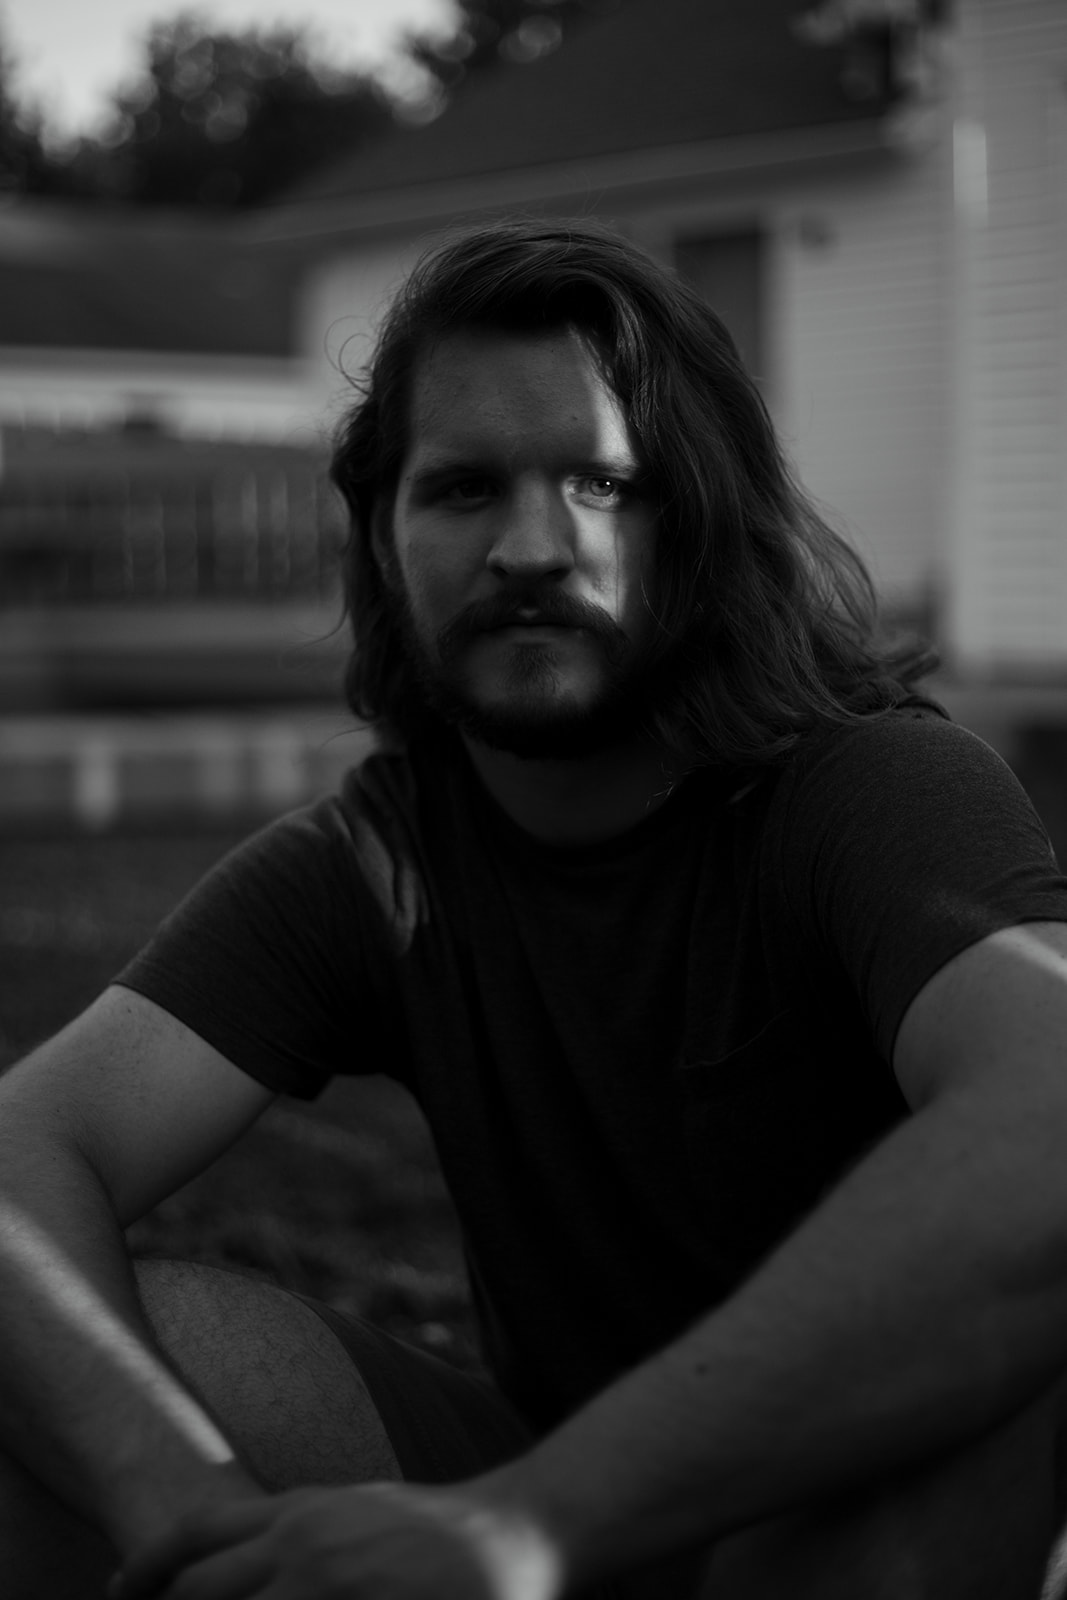
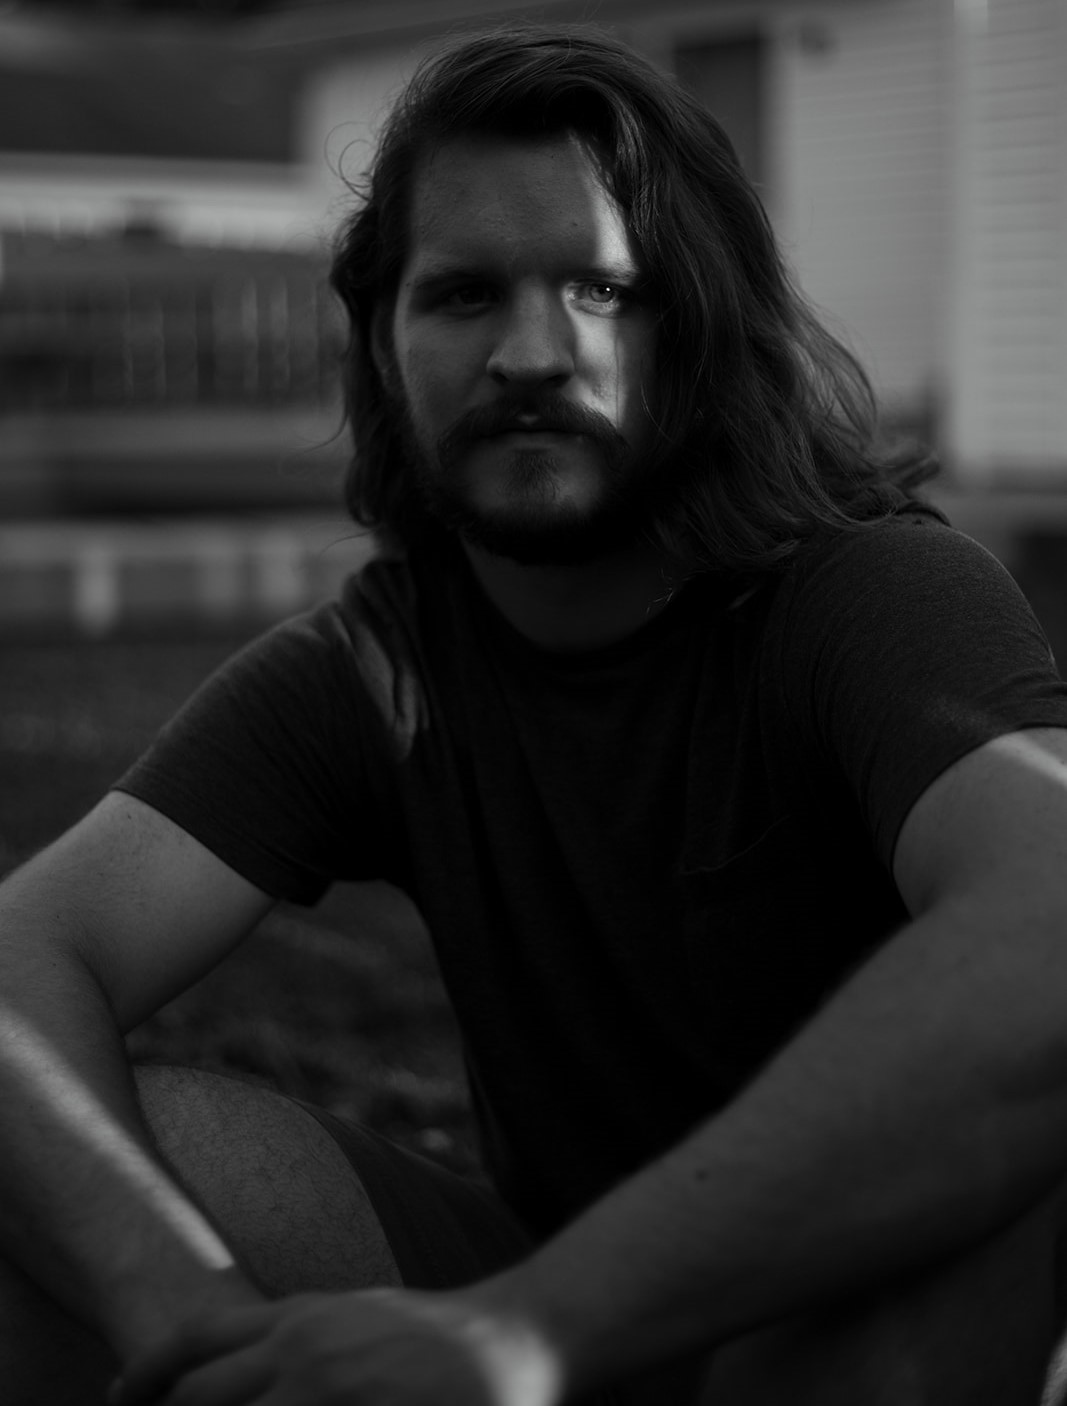
Updated About Me component

diff --git a/src/components/About/index.js b/src/components/About/index.js
@@ -3,7 +3,44 @@ import React from "react";
 function About() {
   return (
     <>
-      <h2>About</h2>
+      <h2 className="text-xl md:text-3xl">About Me</h2>
+
+      <div className="md:grid md:grid-cols-3 md:gap-12 pt-6">
+        <div className="md:col-span-2 text-base md:text-lg text-gray-800">
+          <p className="mb-2">Hello.</p>
+          <p className="my-2">
+            My name is Mitchell George. I'm an engineer by day and a web
+            developor by night. I have a passion for logic and mathematics, and
+            I'm pretty detail oriented. Engineering suits me well, but building
+            websites has quickly become one of my favorite things to do.
+          </p>
+          <p className="mt-4">My formal education includes:</p>
+          <ul className="list-disc list-inside mb-4">
+            <li>Bachelor's Degree in Electrical Engineering</li>
+            <li>Associate's Degree in Industrial Technology</li>
+            <li>Certification in Full Stack Web Development</li>
+          </ul>
+          <p className="my-2">
+            Some of my biggest hobbies and passions are making coffee, playing
+            chess, and learning about nature.
+          </p>
+          <p className="my-2">
+            I have a cat named Shino, and recently I've been teaching her to do
+            tricks. Her favorite is high-five, but she can also sit, lay, and
+            stand.
+          </p>
+          <p className="mt-2 mb-4 md:mb-0">
+            If you'd like to know more about to me, find the Contact section
+            above and reach out!
+          </p>
+        </div>
+
+        <img
+          src={require("../../assets/images/mitchell-george.jpg")}
+          alt="Me sitting outside"
+          className="w-full h-96 object-cover object-top rounded-md"
+        ></img>
+      </div>
     </>
   );
 }

diff --git a/src/components/Header/index.js b/src/components/Header/index.js
@@ -22,11 +22,11 @@ function Header({ currentSelected, setCurrentSelected }) {
 
     const navElements = document.querySelectorAll(".navElement");
     navElements.forEach((element) => {
-      element.classList.remove("border-b-gray-700");
+      element.classList.remove("border-b-gray-500");
       element.removeAttribute("aria-current");
     });
 
-    e.target.classList.add("border-b-gray-700");
+    e.target.classList.add("border-b-gray-500");
     e.target.setAttribute("aria-current", "page");
   };
 
@@ -56,7 +56,7 @@ function Header({ currentSelected, setCurrentSelected }) {
               <a
                 id="about"
                 href="/"
-                className="navElement md:py-1 border-y-transparent border-b-gray-700 border-y-2"
+                className="navElement md:py-1 border-y-transparent border-b-gray-500 border-y-2"
                 onClick={handleNavClick}
                 aria-current="page"
               >
